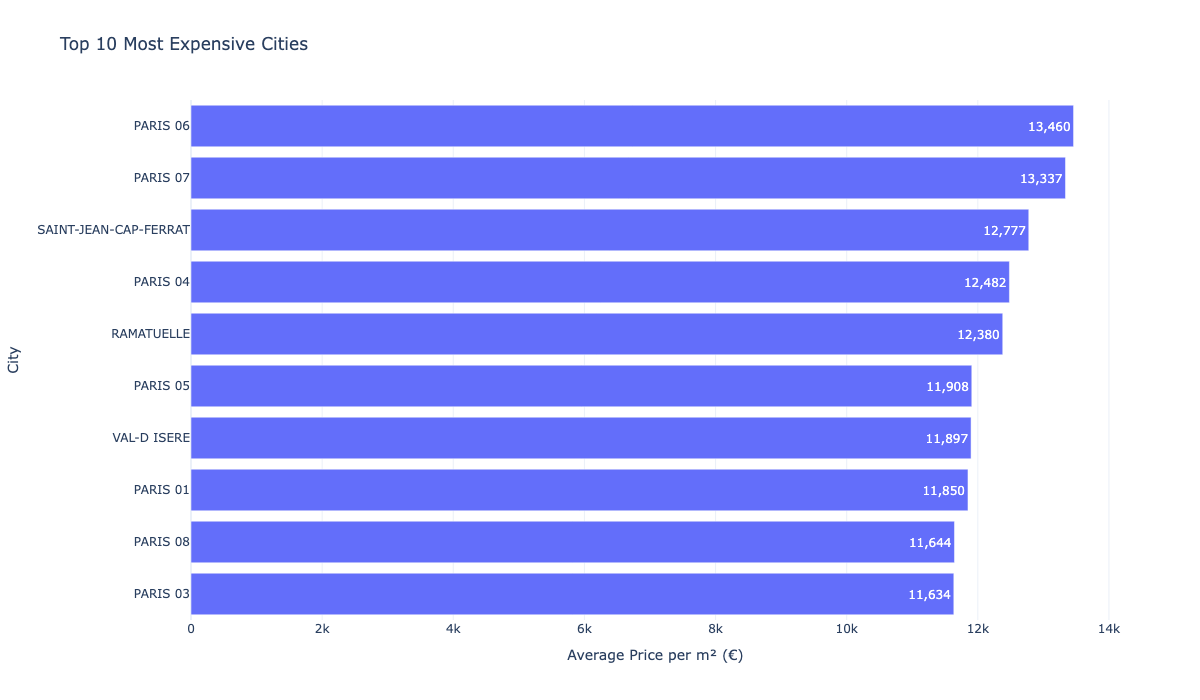
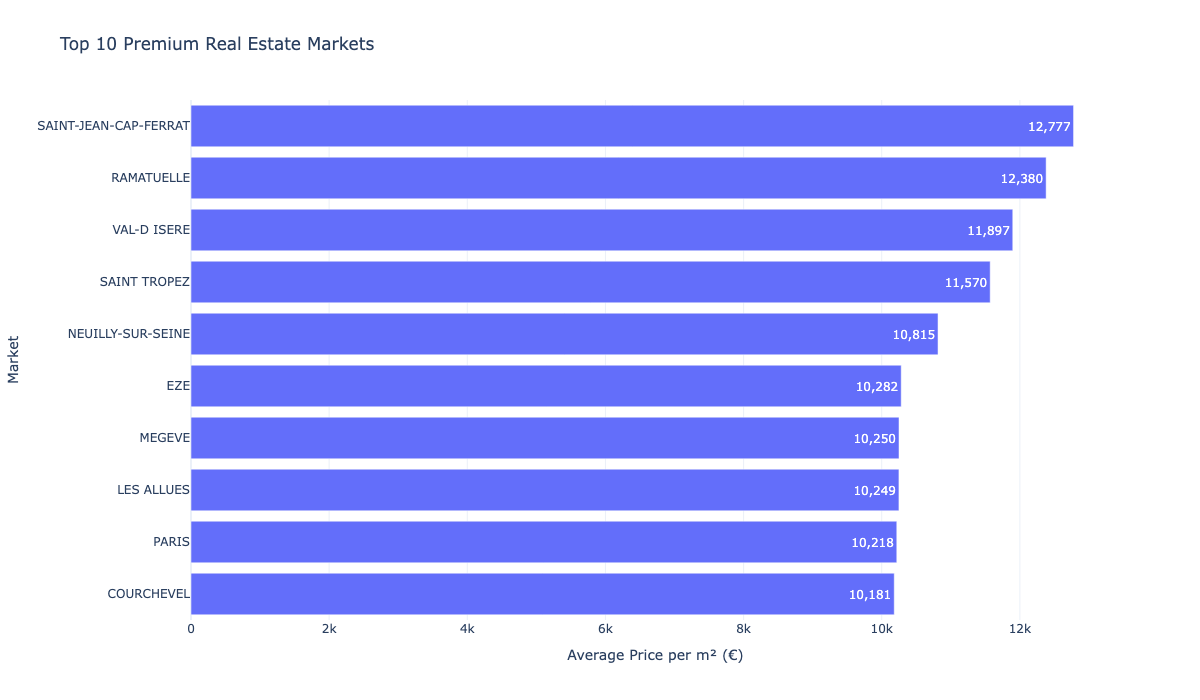
Improve market analysis and visualizations

diff --git a/src/analysis.py b/src/analysis.py
@@ -1,9 +1,9 @@
 import pandas as pd
 from pathlib import Path
 
-# ==========================
+# ==================================================
 # Chargement des données
-# ==========================
+# ==================================================
 
 DATA_FILE = Path("data/processed/france_real_estate.parquet")
 
@@ -13,9 +13,20 @@ df = pd.read_parquet(DATA_FILE)
 
 print(f"Nombre de lignes : {len(df):,}")
 
-# ==========================
+# ==================================================
+# Normalisation des villes
+# ==================================================
+
+df["ville"] = df["commune"]
+
+df.loc[
+    df["ville"].str.startswith("PARIS"),
+    "ville"
+] = "PARIS"
+
+# ==================================================
 # KPI Généraux
-# ==========================
+# ==================================================
 
 total_sales = len(df)
 
@@ -34,9 +45,9 @@ print(f"Prix moyen au m² : {avg_price_m2:,.2f} €")
 print(f"Prix médian au m² : {median_price_m2:,.2f} €")
 print(f"Valeur foncière moyenne : {avg_property_value:,.2f} €")
 
-# ==========================
+# ==================================================
 # Répartition des biens
-# ==========================
+# ==================================================
 
 property_distribution = (
     df["type_local"]
@@ -55,12 +66,12 @@ print("=" * 50)
 
 print(property_distribution)
 
-# ==========================
-# Top 10 communes les plus chères
-# ==========================
+# ==================================================
+# Marchés immobiliers les plus chers
+# ==================================================
 
 top_expensive_cities = (
-    df.groupby("commune")
+    df.groupby("ville")
     .agg(
         prix_m2_moyen=("prix_m2", "mean"),
         nombre_ventes=("prix_m2", "size")
@@ -75,14 +86,14 @@ top_expensive_cities = (
 )
 
 print("\n" + "=" * 50)
-print("TOP 10 COMMUNES LES PLUS CHÈRES")
+print("TOP 10 MARCHÉS IMMOBILIERS LES PLUS CHERS")
 print("=" * 50)
 
 print(top_expensive_cities)
 
-# ==========================
-# Top 10 départements
-# ==========================
+# ==================================================
+# Départements les plus actifs
+# ==================================================
 
 top_departments = (
     df.groupby("code_departement")
@@ -96,14 +107,14 @@ top_departments = (
 )
 
 print("\n" + "=" * 50)
-print("TOP 10 DÉPARTEMENTS PAR NOMBRE DE VENTES")
+print("TOP 10 DÉPARTEMENTS LES PLUS ACTIFS")
 print("=" * 50)
 
 print(top_departments)
 
-# ==========================
+# ==================================================
 # Evolution annuelle du prix au m²
-# ==========================
+# ==================================================
 
 yearly_price = (
     df.groupby("annee")
@@ -115,14 +126,14 @@ yearly_price = (
 )
 
 print("\n" + "=" * 50)
-print("EVOLUTION ANNUELLE DU PRIX AU M²")
+print("ÉVOLUTION ANNUELLE DU PRIX AU M²")
 print("=" * 50)
 
 print(yearly_price)
 
-# ==========================
+# ==================================================
 # Evolution annuelle des ventes
-# ==========================
+# ==================================================
 
 yearly_sales = (
     df.groupby("annee")
@@ -131,17 +142,17 @@ yearly_sales = (
 )
 
 print("\n" + "=" * 50)
-print("EVOLUTION ANNUELLE DES VENTES")
+print("ÉVOLUTION ANNUELLE DES TRANSACTIONS")
 print("=" * 50)
 
 print(yearly_sales)
 
-# ==========================
-# Top 10 communes les plus actives
-# ==========================
+# ==================================================
+# Villes les plus dynamiques
+# ==================================================
 
 top_sales_cities = (
-    df.groupby("commune")
+    df.groupby("ville")
     .size()
     .reset_index(name="nombre_ventes")
     .sort_values(
@@ -152,14 +163,14 @@ top_sales_cities = (
 )
 
 print("\n" + "=" * 50)
-print("TOP 10 COMMUNES PAR NOMBRE DE VENTES")
+print("TOP 10 VILLES LES PLUS DYNAMIQUES")
 print("=" * 50)
 
 print(top_sales_cities)
 
-# ==========================
-# Sauvegarde KPI
-# ==========================
+# ==================================================
+# Export des résultats
+# ==================================================
 
 OUTPUT_DIR = Path("reports")
 OUTPUT_DIR.mkdir(exist_ok=True)
@@ -194,4 +205,4 @@ top_sales_cities.to_csv(
     index=False
 )
 
-print("\n✅ KPI exportés dans le dossier reports/")
+print("\n✅ Analyses exportées dans le dossier reports/")

diff --git a/src/visualization.py b/src/visualization.py
@@ -23,6 +23,17 @@ df = pd.read_parquet(DATA_FILE)
 print(f"Lignes : {len(df):,}")
 
 # ==================================================
+# Normalisation des villes
+# ==================================================
+
+df["ville"] = df["commune"]
+
+df.loc[
+    df["ville"].str.startswith("PARIS"),
+    "ville"
+] = "PARIS"
+
+# ==================================================
 # 1. Evolution du prix moyen au m²
 # ==================================================
 
@@ -60,7 +71,7 @@ fig1.write_image(
 print("✅ yearly_price.png")
 
 # ==================================================
-# 2. Evolution du nombre de ventes
+# 2. Evolution du nombre de transactions
 # ==================================================
 
 yearly_sales = (
@@ -93,7 +104,7 @@ fig2.write_image(
 print("✅ yearly_sales.png")
 
 # ==================================================
-# 3. Répartition Maison / Appartement
+# 3. Répartition des biens
 # ==================================================
 
 property_distribution = (
@@ -131,11 +142,11 @@ fig3.write_image(
 print("✅ property_distribution.png")
 
 # ==================================================
-# 4. Top 10 villes les plus chères
+# 4. Marchés immobiliers les plus chers
 # ==================================================
 
 top_expensive_cities = (
-    df.groupby("commune")
+    df.groupby("ville")
     .agg(
         prix_m2_moyen=("prix_m2", "mean"),
         nombre_ventes=("prix_m2", "size")
@@ -159,15 +170,15 @@ fig4 = px.bar(
         "prix_m2_moyen"
     ),
     x="prix_m2_moyen",
-    y="commune",
+    y="ville",
     orientation="h",
     text_auto=",",
-    title="Top 10 Most Expensive Cities"
+    title="Top 10 Premium Real Estate Markets"
 )
 
 fig4.update_layout(
     xaxis_title="Average Price per m² (€)",
-    yaxis_title="City",
+    yaxis_title="Market",
     template="plotly_white",
     showlegend=False
 )
@@ -181,7 +192,7 @@ fig4.write_image(
 print("✅ top_expensive_cities.png")
 
 # ==================================================
-# 5. Top départements
+# 5. Départements les plus actifs
 # ==================================================
 
 top_departments = (
@@ -219,11 +230,11 @@ fig5.write_image(
 print("✅ top_departments.png")
 
 # ==================================================
-# 6. Top villes par nombre de ventes
+# 6. Marchés immobiliers les plus dynamiques
 # ==================================================
 
 top_sales_cities = (
-    df.groupby("commune")
+    df.groupby("ville")
     .size()
     .reset_index(name="nombre_ventes")
     .sort_values(
@@ -238,15 +249,15 @@ fig6 = px.bar(
         "nombre_ventes"
     ),
     x="nombre_ventes",
-    y="commune",
+    y="ville",
     orientation="h",
     text_auto=",",
-    title="Top 10 Cities by Transactions"
+    title="Top 10 Most Active Real Estate Markets"
 )
 
 fig6.update_layout(
     xaxis_title="Transactions",
-    yaxis_title="City",
+    yaxis_title="Market",
     template="plotly_white",
     showlegend=False
 )
